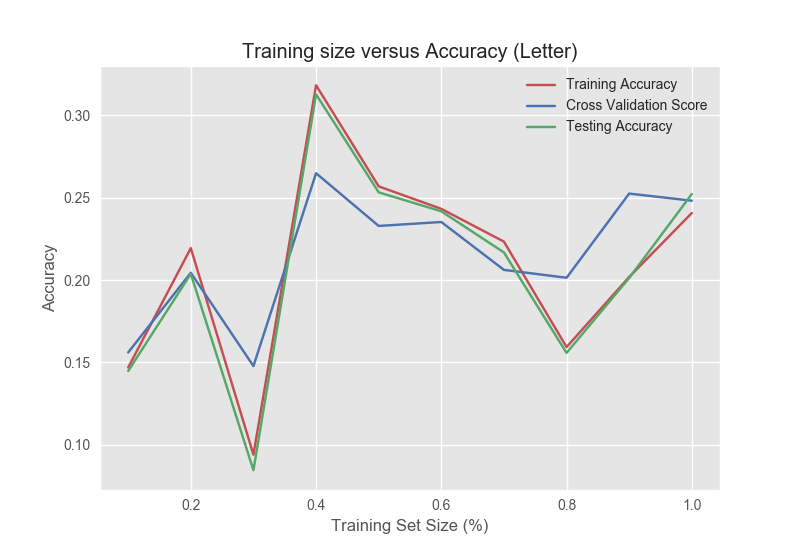
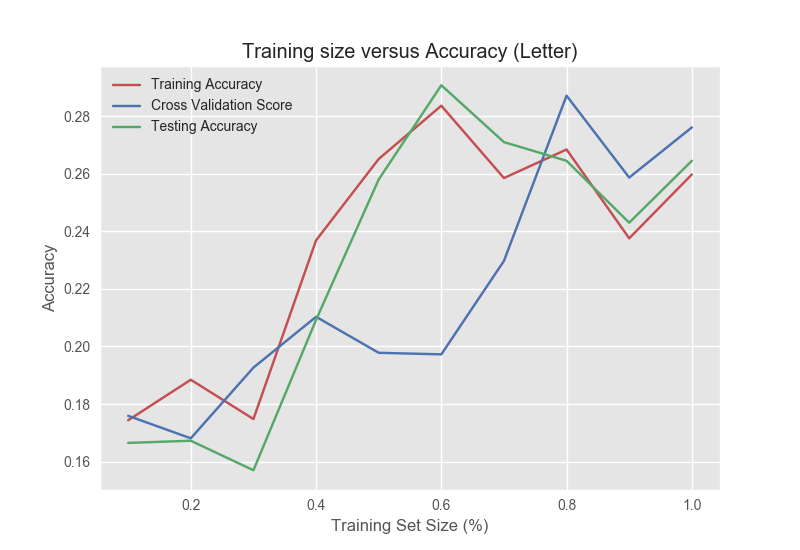
boosting fixed

diff --git a/letter_boosting.py b/letter_boosting.py
@@ -8,7 +8,8 @@ from sklearn.preprocessing import LabelEncoder
 from sklearn.metrics import accuracy_score
 from sklearn.ensemble import AdaBoostClassifier
 from sklearn.model_selection import cross_val_score
-from numpy import arange
+from sklearn.datasets import make_hastie_10_2
+from sklearn.ensemble import GradientBoostingClassifier
 import seaborn as sns
 
 sns.set(color_codes=True)
@@ -33,12 +34,11 @@ test_x = test[[x for x in test.columns if label not in x]]
 training_accuracy = []
 validation_accuracy = []
 test_accuracy = []
-n_estimators = range(1,30)
+n_estimators = range(1,51)
 
 # For N estimators in Boosting
 for n in n_estimators:
     clf = AdaBoostClassifier(n_estimators=n, random_state=1)
-
     clf.fit(train_x, train_y)
     print n
 
@@ -47,7 +47,6 @@ for n in n_estimators:
     validation_accuracy.append(cv)
     test_accuracy.append(accuracy_score(test_y, clf.predict(test_x)))
 
-temp_x = arange(3)
 fig = plt.figure()
 plt.style.use('ggplot')
 line1, = plt.plot(n_estimators, training_accuracy, 'r', label="Training Accuracy")
@@ -68,8 +67,7 @@ training_size = [0.1, 0.2, 0.3, 0.4, 0.5, 0.6, 0.7, 0.8, 0.9]
 
 for s in training_size:
     # Define the classifier
-    clf = AdaBoostClassifier(n_estimators=100, random_state=1)
-    
+    clf = AdaBoostClassifier(n_estimators=50, random_state=1)
     temp_train, _ = train_test_split(train, test_size= 1 - s, random_state=1)
 
     # Train set
@@ -86,7 +84,7 @@ for s in training_size:
     validation_accuracy.append(cv)
     test_accuracy.append(accuracy_score(test_y, clf.predict(test_x)))
 
-clf = AdaBoostClassifier(n_estimators=100, random_state=1)
+clf = AdaBoostClassifier(n_estimators=50, random_state=1)
 clf.fit(train_x, train_y)
 
 training_accuracy.append(accuracy_score(train_y, clf.predict(train_x)))

diff --git a/nursery_boosting.py b/nursery_boosting.py
@@ -34,7 +34,9 @@ test_x = test[[x for x in test.columns if label not in x]]
 training_accuracy = []
 validation_accuracy = []
 test_accuracy = []
-n_estimators = range(1,100)
+n_estimators = range(1,101)
+n_max = 0
+mx = 0
 
 # For N estimators in Boosting
 for n in n_estimators:
@@ -44,10 +46,15 @@ for n in n_estimators:
 
     print n
 
-    training_accuracy.append(accuracy_score(train_y, clf.predict(train_x)))
+    ta = accuracy_score(train_y, clf.predict(train_x))
+    training_accuracy.append(ta)
     cv = cross_val_score(clf, train_x, train_y, cv=7).mean()
     validation_accuracy.append(cv)
     test_accuracy.append(accuracy_score(test_y, clf.predict(test_x)))
+
+    if ta > mx:
+        mx = ta
+        n_max = n
 
 temp_x = arange(3)
 fig = plt.figure()
@@ -68,9 +75,12 @@ validation_accuracy = []
 test_accuracy = []
 training_size = [0.1, 0.2, 0.3, 0.4, 0.5, 0.6, 0.7, 0.8, 0.9]
 
+print 'n:', n_max
+print mx
+
 for s in training_size:
     # Define the classifier
-    clf = AdaBoostClassifier(n_estimators=100, random_state=1)
+    clf = AdaBoostClassifier(n_estimators=n_max, random_state=1)
     
     temp_train, _ = train_test_split(train, test_size= 1 - s, random_state=1)
 
@@ -87,7 +97,7 @@ for s in training_size:
     validation_accuracy.append(cv)
     test_accuracy.append(accuracy_score(test_y, clf.predict(test_x)))
 
-clf = AdaBoostClassifier(n_estimators=100, random_state=1)
+clf = AdaBoostClassifier(n_estimators=n_max, random_state=1)
 clf.fit(train_x, train_y)
 
 training_accuracy.append(accuracy_score(train_y, clf.predict(train_x)))
